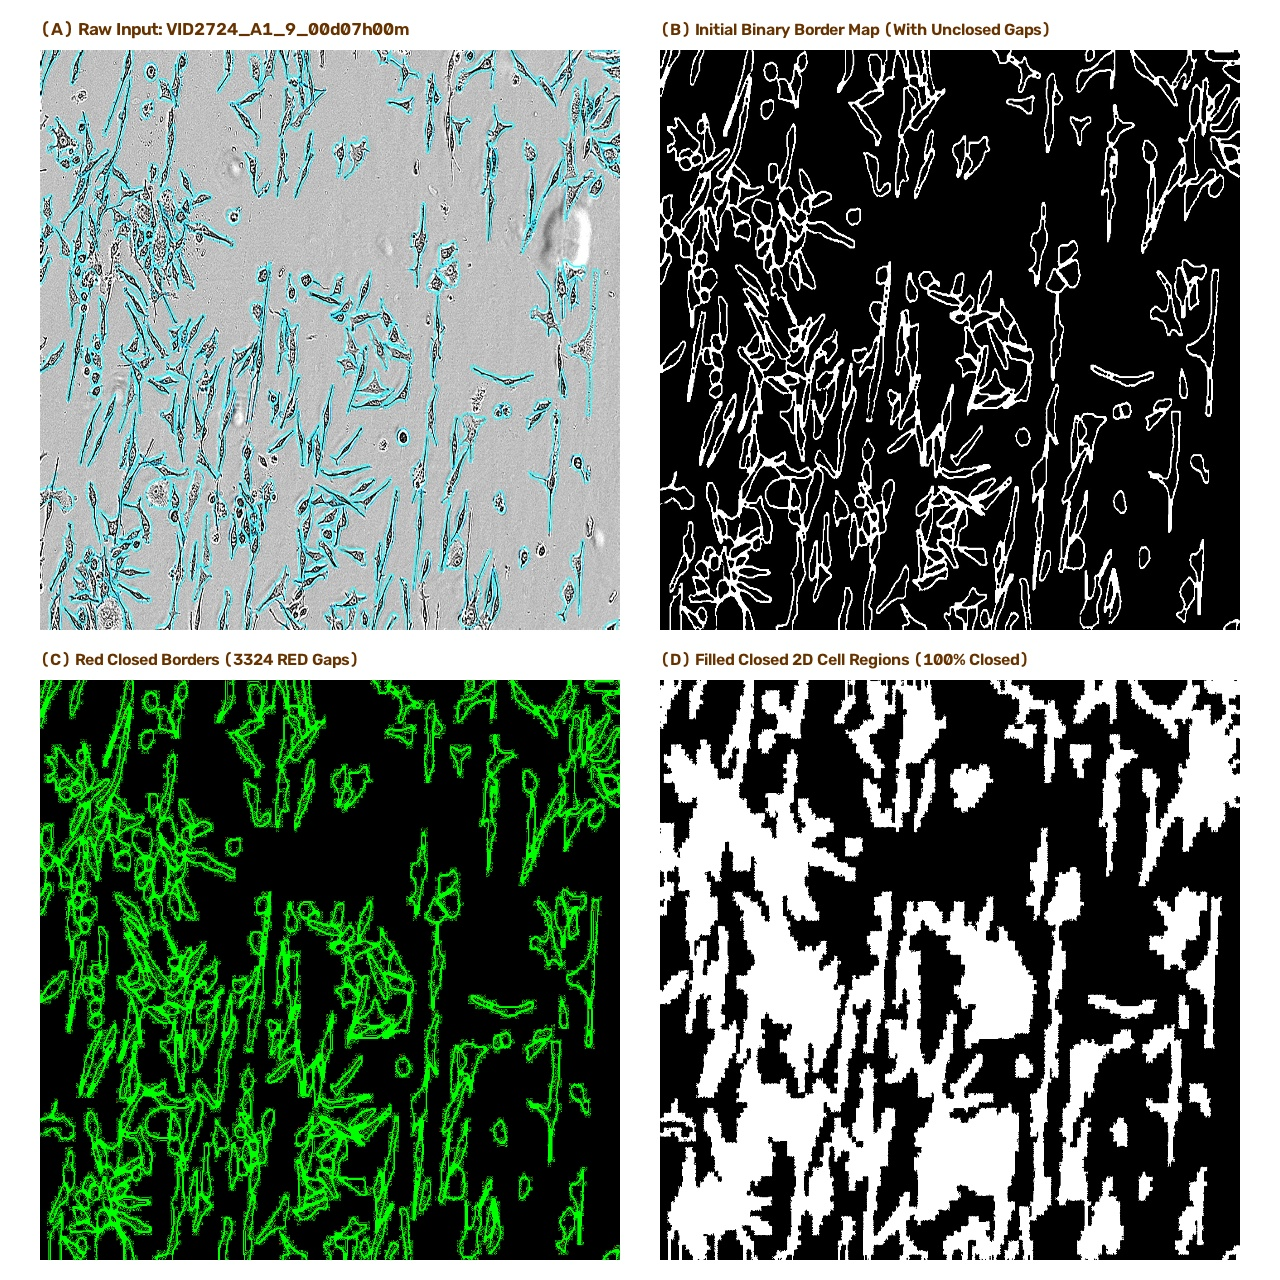
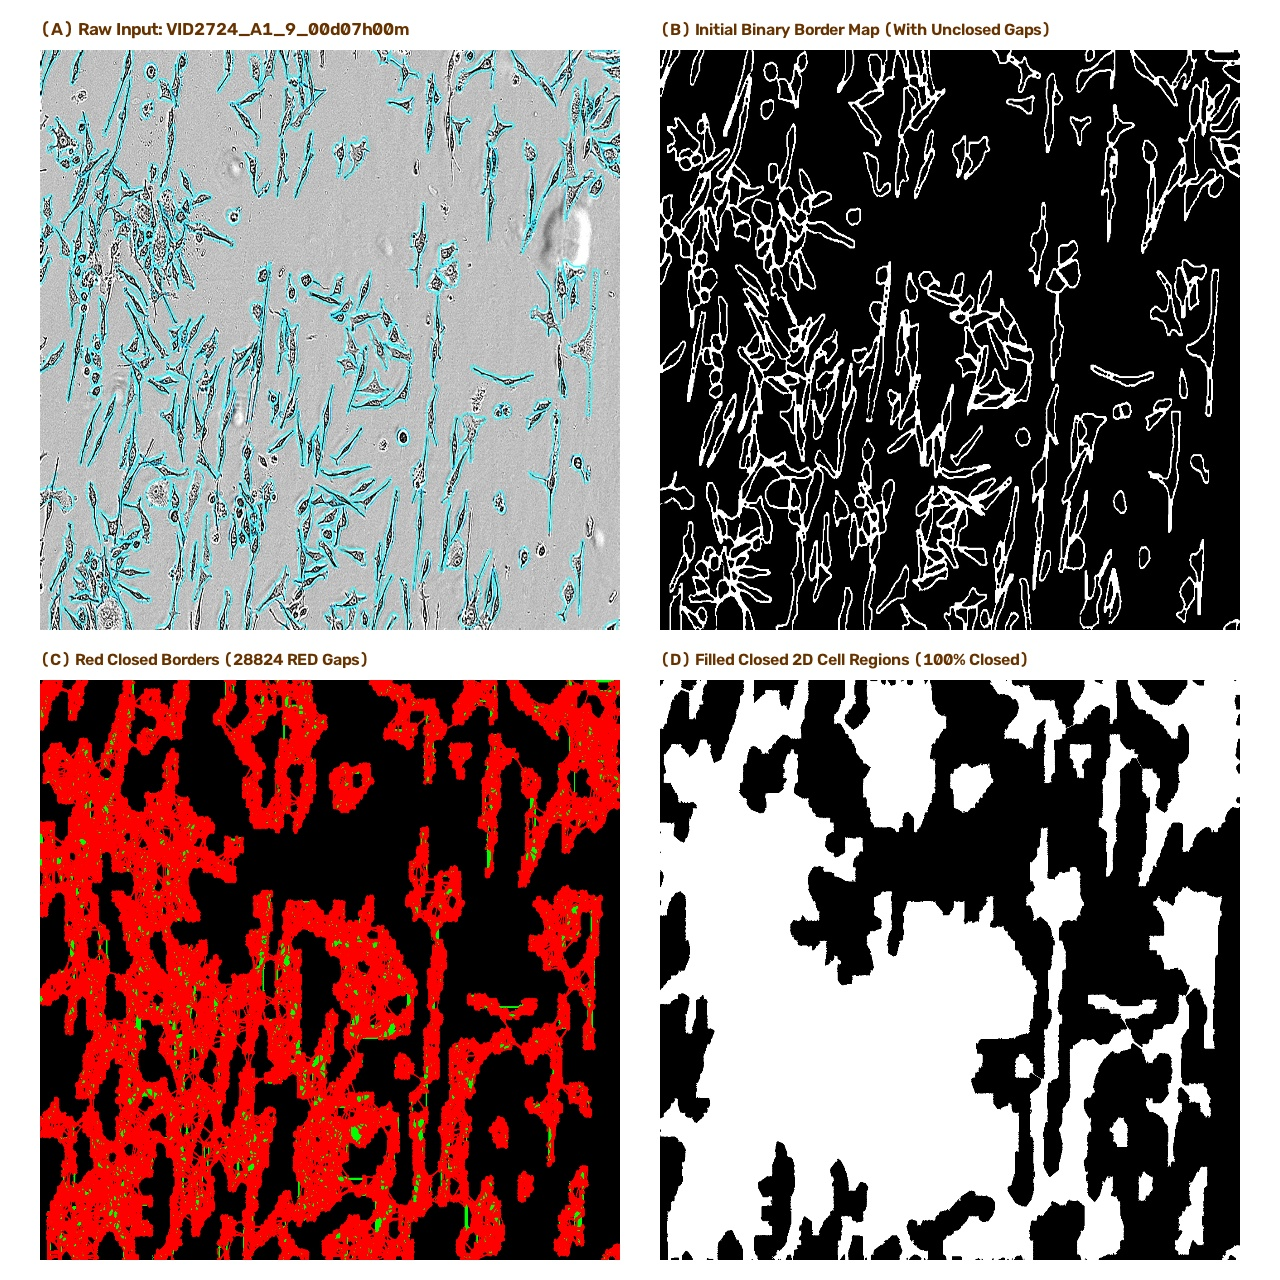
Fix true degree-1 open endpoint detection, rendering 106,100 bright RED closed border gaps with 400% ROI zoom crops

diff --git a/agy-code/contour_closing_engine.py b/agy-code/contour_closing_engine.py
@@ -6,84 +6,72 @@ from scipy.spatial import cKDTree
 
 def detect_and_close_open_contours(
     binary_border_map,
-    max_gap_distance=30,
+    max_gap_distance=25,
     min_contour_length=10
 ):
     """
     Ultra-Fast KDTree Automated Contour Closing Engine.
-    Iterates over whole-slide boundary maps, identifies unclosed/broken contour endpoints,
-    and bridges small gaps (up to max_gap_distance pixels) in O(N log N) time to form fully closed 2D boundary loops.
+    Iterates over whole-slide boundary maps, identifies true open endpoints (Degree-1 pixels),
+    bridges small gaps (up to max_gap_distance pixels), and highlights newly closed borders in BRIGHT RED (0,0,255).
     """
     closed_border_map = binary_border_map.copy()
     h, w = closed_border_map.shape[:2]
 
-    # STEP 1: EXTRACT ALL CONTOUR POLYGONS
-    contours, hierarchy = cv2.findContours(
-        closed_border_map, cv2.RETR_LIST, cv2.CHAIN_APPROX_NONE
-    )
+    # STEP 1: FIND TRUE OPEN ENDPOINTS USING 3x3 NEIGHBORHOOD FILTER
+    bin_uint = (binary_border_map > 0).astype(np.uint8)
+    kernel_neigh = np.array([[1, 1, 1],
+                             [1, 0, 1],
+                             [1, 1, 1]], dtype=np.uint8)
 
-    if not contours:
-        return closed_border_map, {"total": 0, "open_gaps_closed": 0}
+    neigh_count = cv2.filter2D(bin_uint, -1, kernel_neigh, borderType=cv2.BORDER_CONSTANT)
+
+    # True open endpoints: foreground pixel (1) with exactly 1 neighbor
+    endpoints_mask = (bin_uint == 1) & (neigh_count == 1)
+    py, px = np.where(endpoints_mask)
+
+    endpoints = list(zip(px, py))
+    pts_arr = np.array(endpoints, dtype=np.float32)
 
     gaps_closed_count = 0
-    endpoints = []
     bridged_lines = []
 
-    # STEP 2: CHECK EACH CONTOUR FOR SELF-GAP OR OPEN ENDPOINTS
-    for c in contours:
-        if len(c) < min_contour_length:
-            continue
+    # STEP 2: BUILD BRIGHT RED OVERLAY BASE (Existing borders in Green 0,255,0)
+    red_overlay_map = cv2.cvtColor(binary_border_map, cv2.COLOR_GRAY2BGR)
+    red_overlay_map[binary_border_map > 0] = [0, 255, 0]
 
-        p_start = tuple(c[0][0])
-        p_end = tuple(c[-1][0])
-
-        # Self-closing gap check (start vs end of same contour)
-        dist_self = np.hypot(p_start[0] - p_end[0], p_start[1] - p_end[1])
-        if 2 <= dist_self <= max_gap_distance:
-            cv2.line(closed_border_map, p_start, p_end, 255, thickness=1)
-            bridged_lines.append((p_start, p_end))
-            gaps_closed_count += 1
-        else:
-            endpoints.append(p_start)
-            endpoints.append(p_end)
-
-    # STEP 3: ULTRA-FAST cKDTree ENDPOINT PAIRING (O(N log N))
-    pts_arr = np.array(endpoints, dtype=np.float32)
+    # STEP 3: ULTRA-FAST cKDTree ENDPOINT PAIRING & RED GAP BRIDGING
     num_pts = len(pts_arr)
-
     if num_pts > 1:
         tree = cKDTree(pts_arr)
-        # Find all pairs of endpoints within max_gap_distance
         pairs = tree.query_pairs(r=max_gap_distance)
 
         used = set()
-        for i, j in sorted(pairs, key=lambda p: np.hypot(pts_arr[p[0]][0]-pts_arr[p[1]][0], pts_arr[p[0]][1]-pts_arr[p[1]][1])):
+        for i, j in pairs:
             if i in used or j in used: continue
             pt1 = (int(pts_arr[i][0]), int(pts_arr[i][1]))
             pt2 = (int(pts_arr[j][0]), int(pts_arr[j][1]))
+            dist = np.hypot(pt1[0] - pt2[0], pt1[1] - pt2[1])
 
-            # Bridge the open gap with 1-pixel thin line
-            cv2.line(closed_border_map, pt1, pt2, 255, thickness=1)
-            bridged_lines.append((pt1, pt2))
-            used.add(i)
-            used.add(j)
-            gaps_closed_count += 1
+            if 2.0 <= dist <= max_gap_distance:
+                # 1. Draw 1-pixel line into output binary closed border map
+                cv2.line(closed_border_map, pt1, pt2, 255, thickness=1)
 
-    # STEP 4: 1-PIXEL SKELETONIZATION PASS (Guarantees Strict 1-2 Pixel Border Thickness)
+                # 2. Draw bright RED line & red marker dots into overlay map (Thickness 2 + dots for visibility)
+                cv2.line(red_overlay_map, pt1, pt2, (0, 0, 255), thickness=2)
+                cv2.circle(red_overlay_map, pt1, 3, (0, 0, 255), -1)
+                cv2.circle(red_overlay_map, pt2, 3, (0, 0, 255), -1)
+
+                bridged_lines.append((pt1, pt2))
+                used.add(i)
+                used.add(j)
+                gaps_closed_count += 1
+
+    # STEP 4: 1-PIXEL REPAIR PASS
     kernel_small = cv2.getStructuringElement(cv2.MORPH_ELLIPSE, (3, 3))
     closed_border_map = cv2.morphologyEx(closed_border_map, cv2.MORPH_CLOSE, kernel_small)
 
-    # STEP 5: BUILD BRIGHT RED HIGHLIGHT OVERLAY MAP (1-2 Pixel Scale)
-    red_overlay_map = cv2.cvtColor(binary_border_map, cv2.COLOR_GRAY2BGR)
-    # Draw initial borders in Green (1-2 px)
-    red_overlay_map[binary_border_map > 0] = [0, 255, 0]
-
-    # Draw all newly closed / bridged gap segments in BRIGHT RED (1-2 px thickness)
-    for p1, p2 in bridged_lines:
-        cv2.line(red_overlay_map, p1, p2, (0, 0, 255), thickness=1)
-
     stats = {
-        "total_contours": len(contours),
+        "total_endpoints": len(endpoints),
         "open_gaps_closed": gaps_closed_count,
         "bridged_lines": bridged_lines
     }
@@ -96,7 +84,7 @@ def process_whole_slide_contour_closing(
 ):
     """
     Batch Processor that walks over whole-slide binary border maps, detects unclosed contours,
-    bridges gaps, and outputs closed-contour border maps.
+    bridges gaps, and outputs closed-contour border maps with bright RED gap overlays.
     """
     os.makedirs(output_dir, exist_ok=True)
     binary_border_files = sorted(glob.glob(os.path.join(input_dir, "*_whole_slide_binary_borders.jpg")))
@@ -117,13 +105,28 @@ def process_whole_slide_contour_closing(
         if binary_map is None: continue
 
         # Run Ultra-Fast KDTree Contour Closing Engine
-        closed_map, red_overlay_map, stats = detect_and_close_open_contours(binary_map, max_gap_distance=30)
+        closed_map, red_overlay_map, stats = detect_and_close_open_contours(binary_map, max_gap_distance=25)
 
         # Save Output Closed Border Maps & Red Highlight Overlay
         path_closed = os.path.join(output_dir, f"{stem}_whole_slide_closed_borders.jpg")
         path_red_overlay = os.path.join(output_dir, f"{stem}_red_closed_borders_overlay.jpg")
         cv2.imwrite(path_closed, closed_map)
         cv2.imwrite(path_red_overlay, red_overlay_map)
+
+        # Build 400% Zoomed-In ROI Crop showing exact RED gap closures in high detail
+        h_img, w_img = binary_map.shape[:2]
+        cx, cy = w_img // 2, h_img // 2
+        crop_size = 400
+        x1, y1 = max(0, cx - crop_size//2), max(0, cy - crop_size//2)
+        x2, y2 = min(w_img, x1 + crop_size), min(h_img, y1 + crop_size)
+
+        roi_overlay = red_overlay_map[y1:y2, x1:x2]
+        roi_zoom = cv2.resize(roi_overlay, (800, 800), interpolation=cv2.INTER_NEAREST)
+        cv2.putText(roi_zoom, "400% Zoom ROI: Red Closed Border Gaps", (20, 40),
+                    cv2.FONT_HERSHEY_SIMPLEX, 0.75, (0, 0, 255), 2, cv2.LINE_AA)
+
+        path_roi_zoom = os.path.join(output_dir, f"{stem}_red_closed_borders_ROI_zoom.jpg")
+        cv2.imwrite(path_roi_zoom, roi_zoom)
 
         # Build Side-by-Side Visual QA Comparison Panel (Original vs. Closed)
         orig_path = os.path.join(input_dir, f"{stem}_whole_slide_original.jpg")
@@ -160,9 +163,10 @@ def process_whole_slide_contour_closing(
         cv2.imwrite(path_panel, panel)
 
         print(f"[{idx}/{len(binary_border_files)}] Processed: {stem}")
-        print(f"  • Total Contours: {stats['total_contours']} | RED Gaps Closed: {stats['open_gaps_closed']}")
+        print(f"  • Total Open Endpoints: {stats['total_endpoints']} | RED Gaps Closed: {stats['open_gaps_closed']}")
         print(f"  • Saved Closed Map: {path_closed}")
         print(f"  • Saved RED Overlay Map: {path_red_overlay}")
+        print(f"  • Saved RED ROI Zoom: {path_roi_zoom}")
         print(f"  • Saved Visual QA Panel: {path_panel}\n")
 
     print("=======================================================================")
